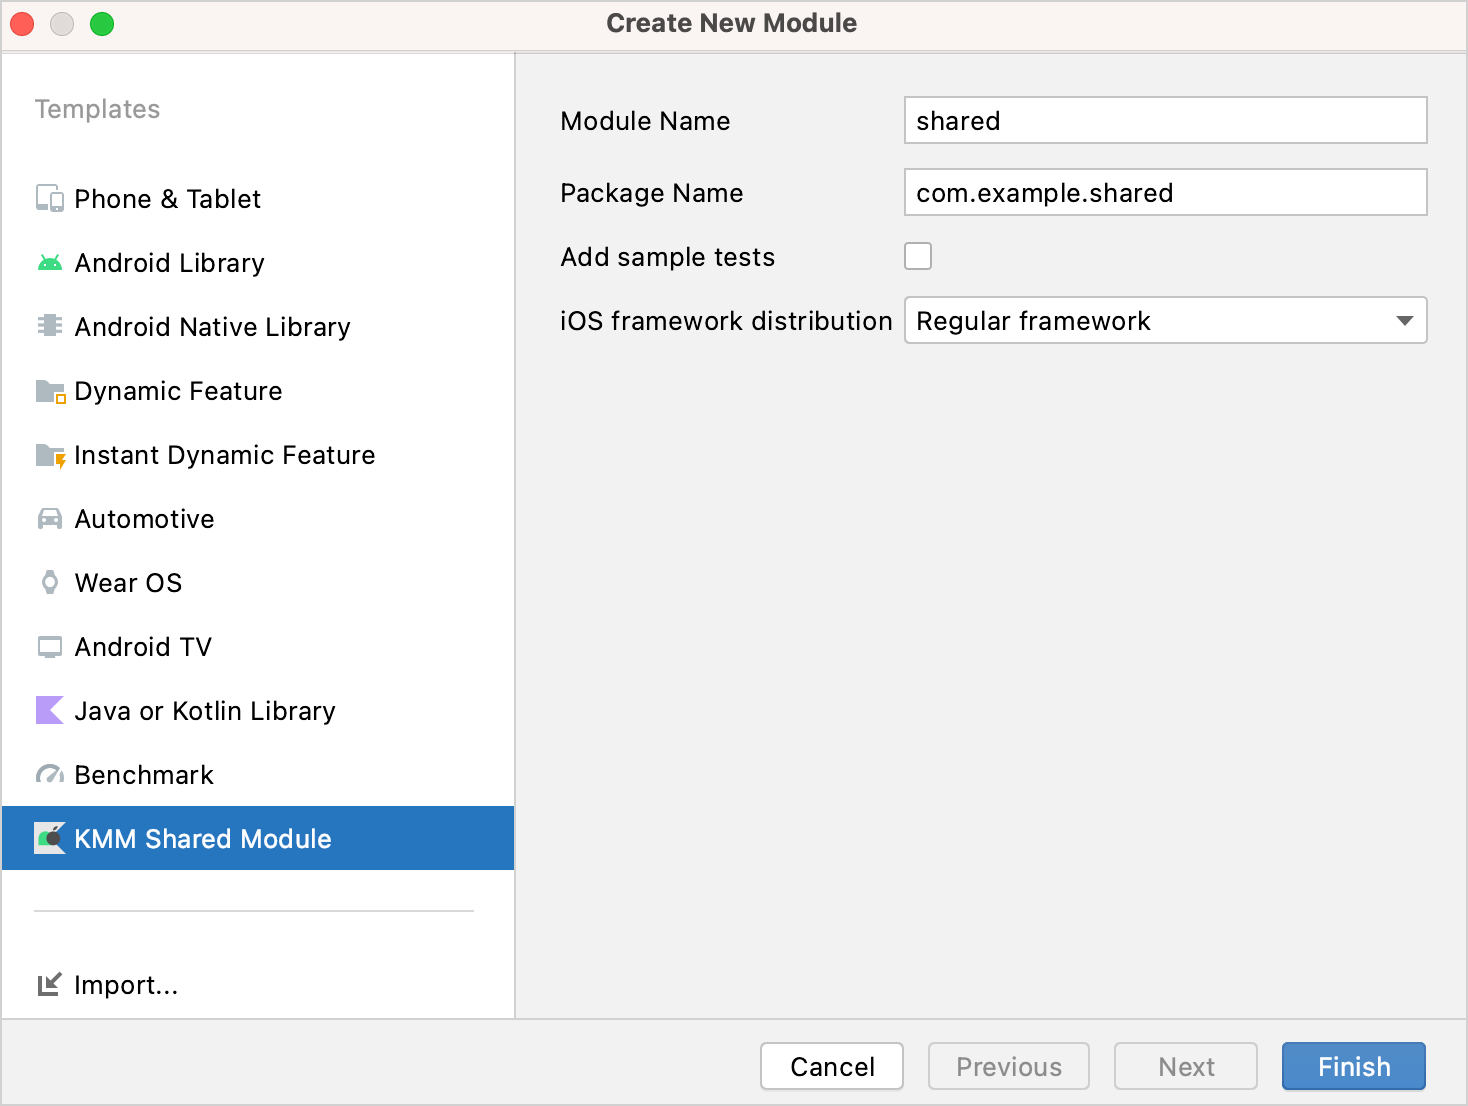
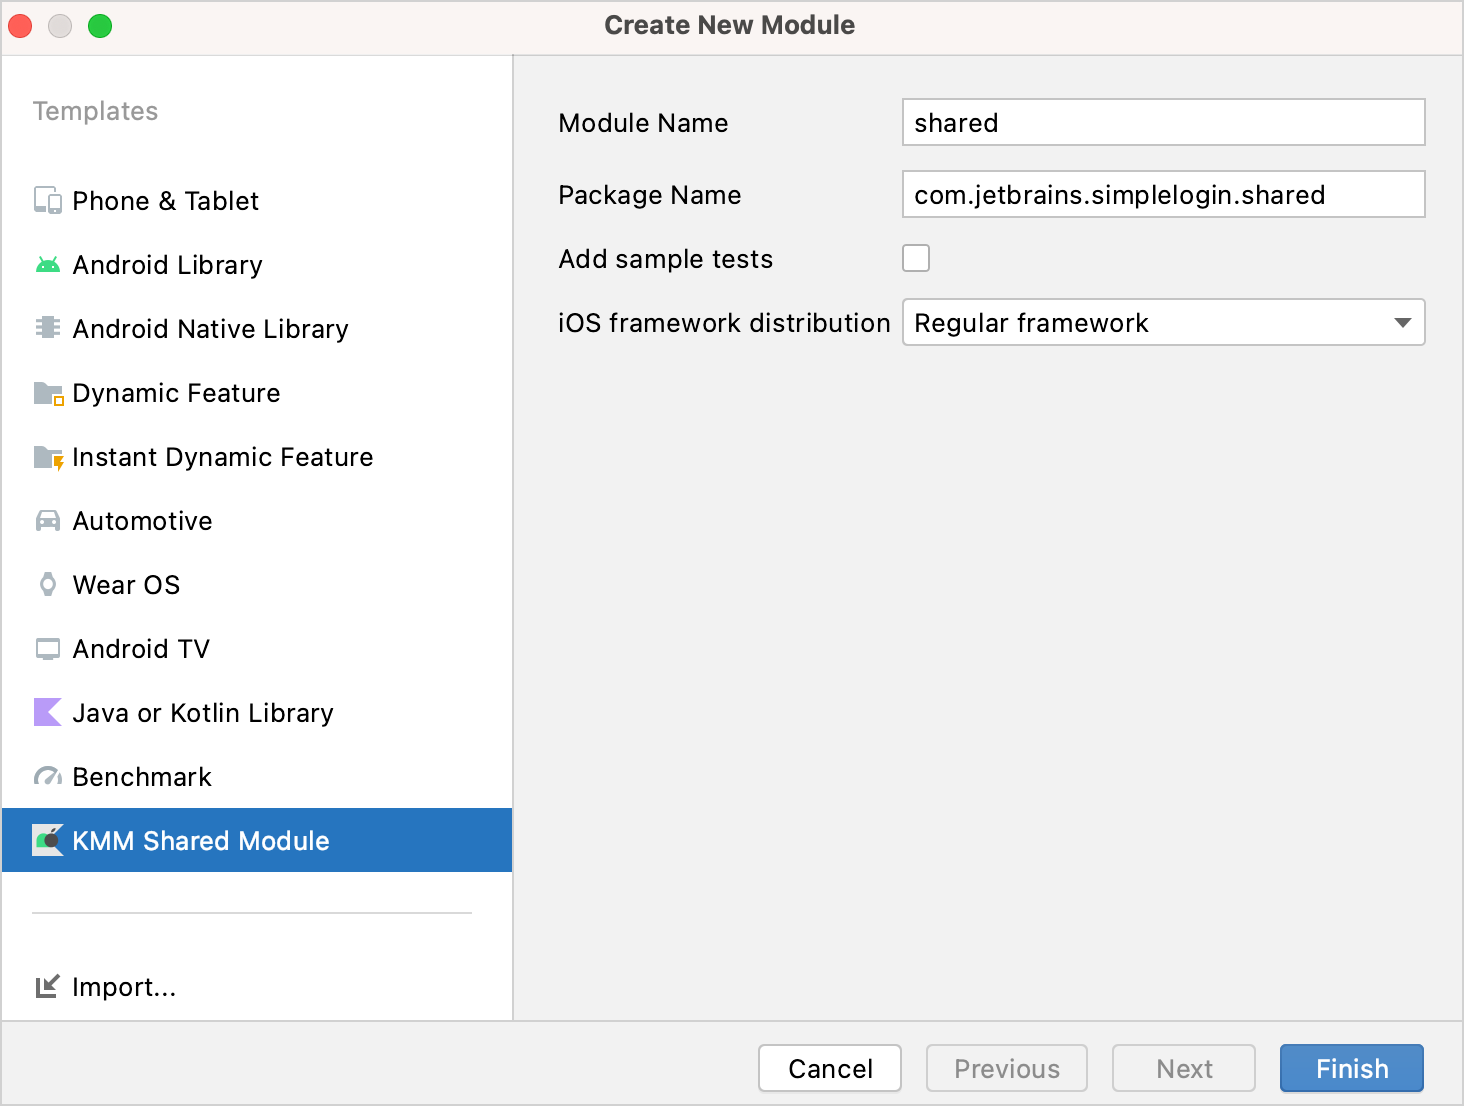
fix: small corrections

diff --git a/docs/topics/kmm/kmm-integrate-in-existing-app.md b/docs/topics/kmm/kmm-integrate-in-existing-app.md
@@ -109,7 +109,7 @@ dump the `greeting()` function result to the log by updating the `onCreate()` me
 
 You can now extract the business logic code to the KMM shared module and make it platform-independent. This is necessary for reusing the code for both Android and iOS.
 
-1. Move the business logic code `com.jetbrains.simplelogin.androidapp.data` from the `app` directory to the `com.example.shared` package in the `shared/src/commonMain` directory.
+1. Move the business logic code `com.jetbrains.simplelogin.androidapp.data` from the `app` directory to the `com.jetbrains.simplelogin.shared` package in the `shared/src/commonMain` directory.
    You can drag and drop the package or refactor it by moving everything from one directory to another.
 
    ![Drag and drop the package with the business logic code](moving-business-logic.png){width=350}
@@ -122,9 +122,9 @@ You can now extract the business logic code to the KMM shared module and make it
 
    ![Warnings about platform-dependent code](warnings-android-specific-code.png){width=450}
 
-4. Remove Android-specific code by replacing it with cross-platform Kotlin code or connecting to Android-specific APIs using [`expect` and `actual` declarations](kmm-connect-to-platform-specific-apis.md). See the following sections for details.
+4. Remove Android-specific code by replacing it with cross-platform Kotlin code or connecting to Android-specific APIs using [`expect` and `actual` declarations](kmm-connect-to-platform-specific-apis.md). See the following sections for details:
 
-#### Replace Android-specific code with cross-platform code
+#### Replace Android-specific code with cross-platform code {initial-collapse-state="collapsed"}
 
 To make your code work well on both Android and iOS, replace all JVM dependencies with Kotlin dependencies in the moved `data` directory wherever possible.
 
@@ -163,7 +163,7 @@ To make your code work well on both Android and iOS, replace all JVM dependencie
     }
     ```
 
-#### Connect to platform-specific APIs from the cross-platform code
+#### Connect to platform-specific APIs from the cross-platform code {initial-collapse-state="collapsed"}
 
 In the `LoginDataSource` class, a universally unique identifier (UUID) for `fakeUser` is generated using the `java.util.UUID` class, which is not available for iOS.
 
@@ -185,7 +185,7 @@ You can learn more about [connecting to platform-specific APIs](kmm-connect-to-p
 1. Create a `Utils.kt` file in the `shared/src/commonMain/kotlin/com/example/shared` directory and provide the `expect` declaration:
 
     ```kotlin
-    package com.example.shared
+    package com.jetbrains.simplelogin.shared
     
     expect fun randomUUID(): String
     ```
@@ -193,7 +193,7 @@ You can learn more about [connecting to platform-specific APIs](kmm-connect-to-p
 2. Create a `Utils.kt` file in the `shared/src/androidMain/kotlin/com/example/shared` directory and provide the `actual` implementation for `randomUUID()` in Android:
 
     ```kotlin
-    package com.example.shared
+    package com.jetbrains.simplelogin.shared
     
     import java.util.*
     actual fun randomUUID() = UUID.randomUUID().toString()
@@ -202,7 +202,7 @@ You can learn more about [connecting to platform-specific APIs](kmm-connect-to-p
 3. Create a `Utils.kt` file in the `shared/src/iosMain/kotlin/com/example/shared` directory and provide the `actual` implementation for `randomUUID()` in iOS:
 
     ```kotlin
-    package com.example.shared
+    package com.jetbrains.simplelogin.shared
     
     import platform.Foundation.NSUUID
     actual fun randomUUID(): String = NSUUID().UUIDString()
@@ -244,7 +244,7 @@ In Android Studio, you'll get the following structure:
 
 ![iOS project in Android Studio](ios-project-in-as.png){width=194}
 
-You can rename `simpleLoginIOS` to `iosApp` for consistency with other top-level directories of your cross-platform project.
+You can rename the `simpleLoginIOS` directory to `iosApp` for consistency with other top-level directories of your cross-platform project.
 
 ![Renamed iOS project directory in Android Studio](ios-directory-renamed-in-as.png){width=194}
 
@@ -320,25 +320,137 @@ Your code should look like this:
 
    ![Greeting from the KMM module](xcode-iphone-hello.png){width=300}
 
-4. In `ContentView.swift`, write [code for using data from the shared module and rendering the application UI](https://github.com/Kotlin/kmm-integration-sample/blob/final/SimpleLoginIOS/SimpleLoginIOS/ContentView.swift).
+#### In `ContentView.swift`, write code for using data from the shared module and rendering the application UI {initial-collapse-state="collapsed"}
+   
+```Swift
+import SwiftUI
+import shared
 
-5. In `simpleLoginIOSApp.swift`, import the `shared` module and specify the arguments for the `ContentView()` function:
-
-    ```Swift
-    import SwiftUI
-    import shared
+struct ContentView: View {
+    @State private var username: String = ""
+    @State private var password: String = ""
     
-    @main
-    struct SimpleLoginIOSApp: App {
-        var body: some Scene {
-            WindowGroup {
-                ContentView(viewModel: .init(loginRepository: LoginRepository(dataSource: LoginDataSource()), loginValidator: LoginDataValidator()))
+    @ObservedObject var viewModel: ContentView.ViewModel
+    
+    var body: some View {
+        VStack(spacing: 15.0) {
+            ValidatedTextField(titleKey: "Username", secured: false, text: $username, errorMessage: viewModel.formState.usernameError, onChange: {
+                viewModel.loginDataChanged(username: username, password: password)
+            })
+            ValidatedTextField(titleKey: "Password", secured: true, text: $password, errorMessage: viewModel.formState.passwordError, onChange: {
+                viewModel.loginDataChanged(username: username, password: password)
+            })
+            Button("Login") {
+                viewModel.login(username: username, password: password)
+            }.disabled(!viewModel.formState.isDataValid || (username.isEmpty && password.isEmpty))
+        }
+        .padding(.all)
+    }
+}
+
+struct ValidatedTextField: View {
+    let titleKey: String
+    let secured: Bool
+    @Binding var text: String
+    let errorMessage: String?
+    let onChange: () -> ()
+    
+    @ViewBuilder var textField: some View {
+        if secured {
+            SecureField(titleKey, text: $text)
+        }  else {
+            TextField(titleKey, text: $text)
+        }
+    }
+    
+    var body: some View {
+        ZStack {
+            textField
+                .textFieldStyle(RoundedBorderTextFieldStyle())
+                .autocapitalization(.none)
+                .onChange(of: text) { _ in
+                    onChange()
+                }
+            if let errorMessage = errorMessage {
+                HStack {
+                    Spacer()
+                    FieldTextErrorHint(error: errorMessage)
+                }.padding(.horizontal, 5)
             }
         }
     }
-   ```  
+}
 
-   ![Simple login application](xcode-iphone-login.png){width=300}
+struct FieldTextErrorHint: View {
+    let error: String
+    @State private var showingAlert = false
+    
+    var body: some View {
+        Button(action: { self.showingAlert = true }) {
+            Image(systemName: "exclamationmark.triangle.fill")
+                .foregroundColor(.red)
+        }
+        .alert(isPresented: $showingAlert) {
+            Alert(title: Text("Error"), message: Text(error), dismissButton: .default(Text("Got it!")))
+        }
+    }
+}
+
+extension ContentView {
+    
+    struct LoginFormState {
+        let usernameError: String?
+        let passwordError: String?
+        var isDataValid: Bool {
+            get { return usernameError == nil && passwordError == nil }
+        }
+    }
+    
+    class ViewModel: ObservableObject {
+        @Published var formState = LoginFormState(usernameError: nil, passwordError: nil)
+        
+        let loginValidator: LoginDataValidator
+        let loginRepository: LoginRepository
+        
+        init(loginRepository: LoginRepository, loginValidator: LoginDataValidator) {
+            self.loginRepository = loginRepository
+            self.loginValidator = loginValidator
+        }
+        
+        func login(username: String, password: String) {
+            if let result = loginRepository.login(username: username, password: password) as? ResultSuccess  {
+                print("Successful login. Welcome, \(result.data.displayName)")
+            } else {
+                print("Error while logging in")
+            }
+        }
+        
+        func loginDataChanged(username: String, password: String) {
+            formState = LoginFormState(
+                usernameError: (loginValidator.checkUsername(username: username) as? LoginDataValidator.ResultError)?.message,
+                passwordError: (loginValidator.checkPassword(password: password) as? LoginDataValidator.ResultError)?.message)
+        }
+    }
+}
+```
+
+#### In `simpleLoginIOSApp.swift`, import the `shared` module and specify the arguments for the `ContentView()` function {initial-collapse-state="collapsed"}
+
+ ```Swift
+ import SwiftUI
+ import shared
+ 
+ @main
+ struct SimpleLoginIOSApp: App {
+     var body: some Scene {
+         WindowGroup {
+             ContentView(viewModel: .init(loginRepository: LoginRepository(dataSource: LoginDataSource()), loginValidator: LoginDataValidator()))
+         }
+     }
+ }
+```  
+
+![Simple login application](xcode-iphone-login.png){width=300}
 
 ## Enjoy the results – update the logic only once
 
@@ -347,7 +459,7 @@ Now your application is cross-platform. You can update the business logic in one
 1. In Android Studio, change the validation logic for a user's password in the `checkPassword()` function of the `LoginDataValidator` class:
 
     ```kotlin 
-    package com.example.shared.data
+    package com.jetbrains.simplelogin.shared.data
 
     class LoginDataValidator {
     //... 
